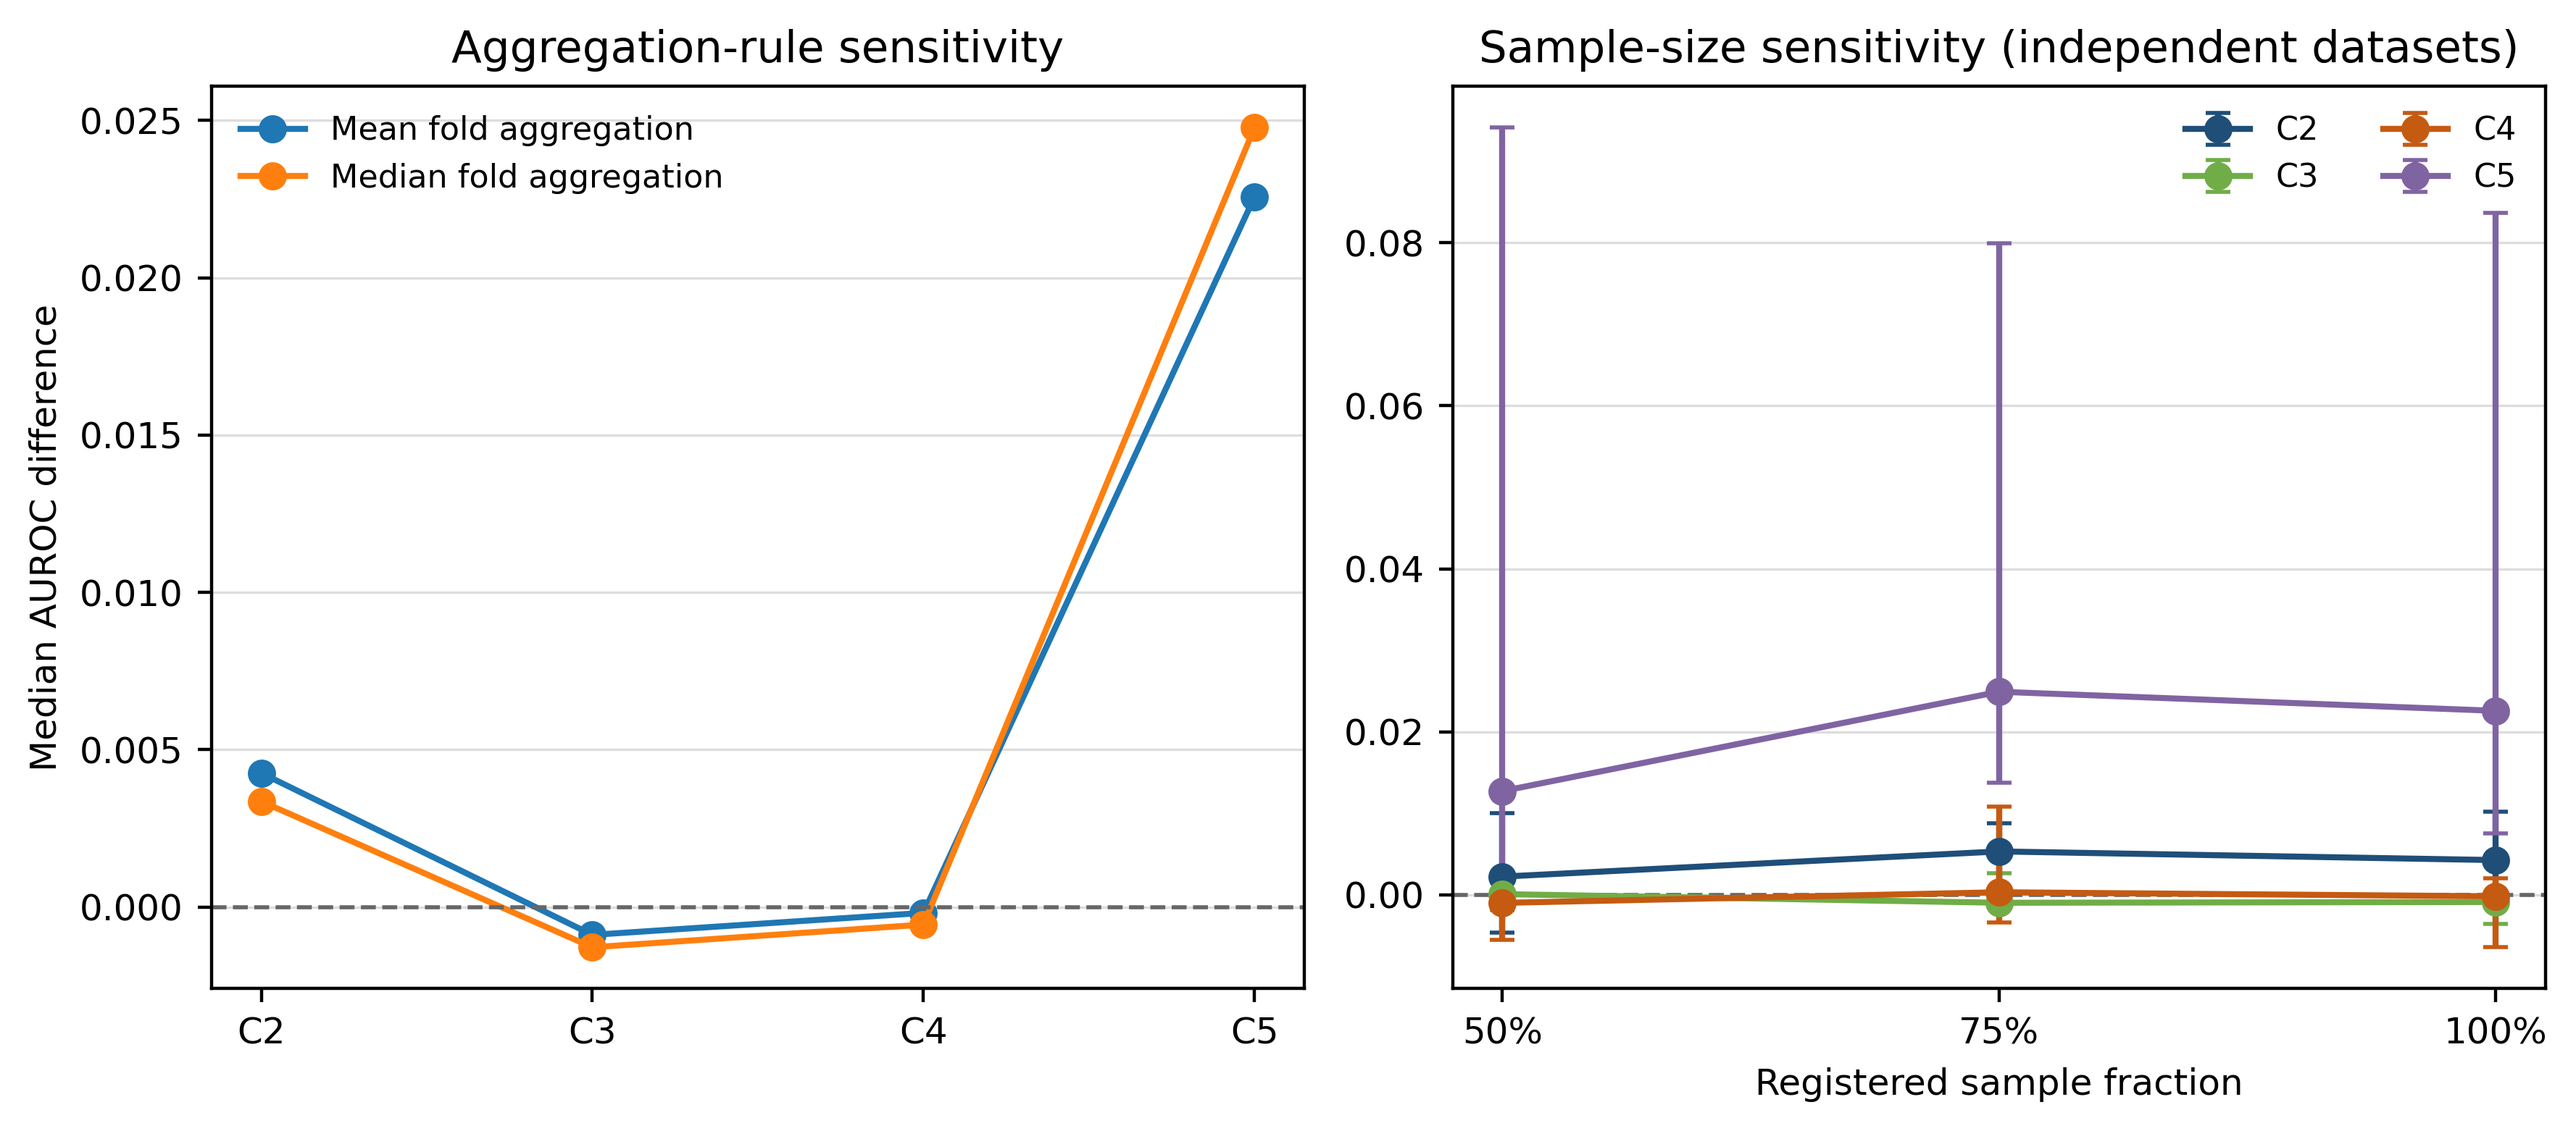
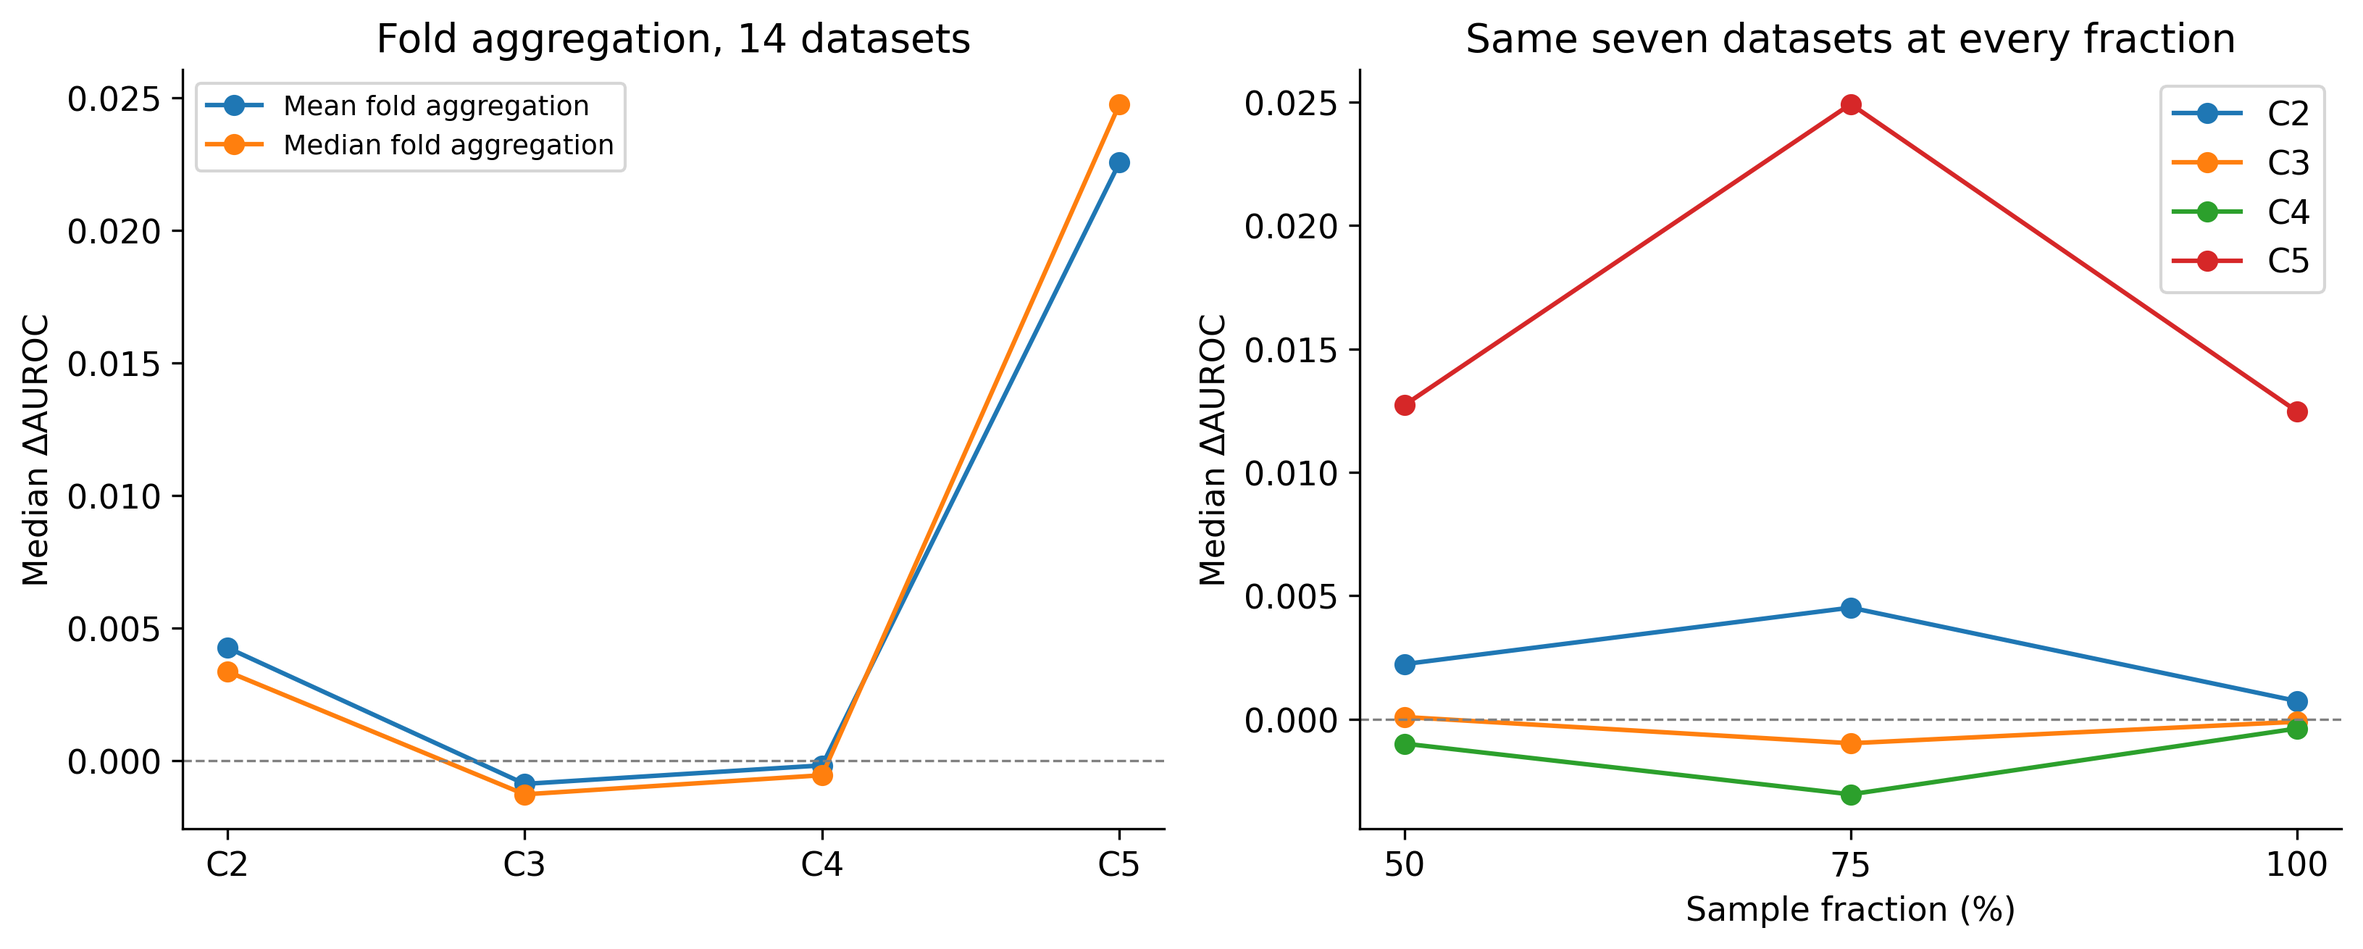
Synchronize figures with current manuscript and supplement

diff --git a/05_FINAL_FIGURES/README.md b/05_FINAL_FIGURES/README.md
@@ -1,18 +1,30 @@
-# Final figure map
+# Figure map
 
-All eight files are publication-ready static PNGs at 400 DPI. The public release contains the final images, not the private rendering scripts.
+This set follows the current manuscript and supplementary numbering. It contains six main figures and five supplementary figures. These are PNG copies of the current author-maintained figures. Pixels and resolution metadata have not changed. Nominal resolution is 300 or 400 DPI, as recorded per image in the release manifest. Repository PNGs do not replace the separate journal submission files.
 
 ## Main text
 
-1. `01_MAIN_TEXT/Figure_1_Primary_Contrasts.png` — primary paired contrasts against the leakage-free reference.
-2. `01_MAIN_TEXT/Figure_2_Dataset_Heterogeneity.png` — variation in estimated inflation across datasets.
-3. `01_MAIN_TEXT/Figure_3_Sample_Size.png` — sample-size sensitivity using the corrected dataset-level unit of analysis.
-4. `01_MAIN_TEXT/Figure_4_Moderators.png` — prespecified moderator estimates and uncertainty.
-5. `01_MAIN_TEXT/Figure_5_Model_Family.png` — model-family comparison.
+1. `01_MAIN_TEXT/Figure_1_Methodology_Flowchart.png` — study workflow and deliberate validation errors.
+2. `01_MAIN_TEXT/Figure_2_Primary_Contrasts.png` — the four dataset-level primary contrasts relative to C0.
+3. `01_MAIN_TEXT/Figure_3_Dataset_Heterogeneity.png` — dataset-level differences across the four conditions.
+4. `01_MAIN_TEXT/Figure_4_Matched_Sample_Size.png` — trajectories for the same seven datasets at all three fractions. Black points show their median. There are no uncertainty bars.
+5. `01_MAIN_TEXT/Figure_5_Moderators.png` — dataset-level associations with feature-to-sample ratio and minority prevalence.
+6. `01_MAIN_TEXT/Figure_6_Paired_Model_Family.png` — descriptive paired model-family differences across datasets. These are fallback summaries, not adjusted mixed-model estimates.
 
 ## Supplementary material
 
 1. `02_SUPPLEMENTARY/Figure_S1_Model_Family_Sensitivity.png` — model-family sensitivity analysis.
 2. `02_SUPPLEMENTARY/Figure_S2_Mixed_Model_Diagnostics.png` — mixed-effects diagnostic evidence.
-3. `02_SUPPLEMENTARY/Figure_S3_Robustness.png` — robustness and sensitivity checks.
+3. `02_SUPPLEMENTARY/Figure_S3_Robustness.png` — fold-aggregation sensitivity and sample-fraction medians for the same seven datasets.
+4. `02_SUPPLEMENTARY/Figure_S4_Adjusted_Model_Sensitivity.png` — adjusted mixed-model estimates retained only as sensitivity evidence. The diagnostic gate failed. These estimates do not support confirmatory adjusted inference.
+5. `02_SUPPLEMENTARY/Figure_S5_Dataset_Differences.png` — the 14 primary differences in each condition. Dataset ordering varies between panels. This display does not establish symmetry.
 
+## Interpretation and version boundary
+
+C0 is the fold-contained reference described in the manuscript. The supplied flowchart uses the earlier label "Leakage-free reference". This label does not guarantee clinical availability of every predictor or rule out unidentified repeated patients. The documented grouping rule uses predictor signatures.
+
+C4 retained a fixed 50 percent of globally ranked raw predictors. C0 tuned the retained percentage of transformed features. C4 also changed representation and the tuning search space. The comparison does not isolate feature-selection placement alone.
+
+The former adjusted model-family main figure is now Fig S4. The matched seven-dataset sample-size plot replaces the changing-panel main plot. Superseded paths are removed from the current set. Earlier versions remain recoverable in Git history.
+
+This update changes figures, their mapping, and integrity records. It does not change frozen experiment outputs, primary analysis tables, code, or the archived protocol. It does not certify end-to-end reproduction.

diff --git a/06_REPRODUCIBILITY_RECORDS/PUBLIC_INTEGRITY_SUMMARY.md b/06_REPRODUCIBILITY_RECORDS/PUBLIC_INTEGRITY_SUMMARY.md
@@ -1,15 +1,15 @@
 # Public release integrity summary
 
-Overall status: **PASS**
+Figure synchronization status: **PASS**
 
-- Public files inventoried: 11860
-- Validated atomic result units: 2946
-- Static final figures: 8; all verified at 400 DPI: yes
-- Private-path or identity-pattern flags: 0
-- Manuscript/workbook/figure builder files: 0
-- Figure-generation code flags: 0
-- Python syntax errors: 0
-- JSON parse errors: 0
-- Files over 95 MB: 0
+- Main figures: 6
+- Supplementary figures: 5
+- All 11 PNGs are byte-identical to the current author-maintained source figures.
+- Figure numbering follows the current manuscript and supplement.
+- Resolution metadata is recorded per image in the manifest.
+- Superseded paths are removed from the current set. Prior versions remain in Git history.
+- Frozen experiment outputs, primary analysis tables, research code, and the protocol were not changed by this update.
 
-The CSV inventory records SHA-256 hashes for the public files. The release contains final figures but excludes private figure-rendering and manuscript-building utilities.
+The CSV inventory records current public file sizes and SHA-256 hashes. It excludes the three integrity records to avoid self-referential hashes. The manifest records the inventory hash. Every listed file was checked against the refreshed inventory.
+
+This is a figure synchronization and integrity check. The earlier full release audit is not being repeated or newly certified here. End-to-end execution, independent data acquisition, and the current manuscript's additional derived summaries require separate reproducibility checks. Figure-generation scripts remain excluded from this release.

diff --git a/README.md b/README.md
@@ -42,7 +42,7 @@ Primary contrasts, model-family analyses, sample-size analyses, moderator analys
 
 ### `05_FINAL_FIGURES/`
 
-Five main-text figures and three supplementary figures at 400 DPI. These are the final reported visual outputs. Figure-generation code is intentionally excluded from the public release.
+Six main-text figures and five supplementary figures match the current manuscript and supplement numbering. The PNG files preserve the supplied pixels and resolution metadata. The figure map records the role of each image. Figure-generation code is intentionally excluded from the public release.
 
 ### `06_REPRODUCIBILITY_RECORDS/`
 
